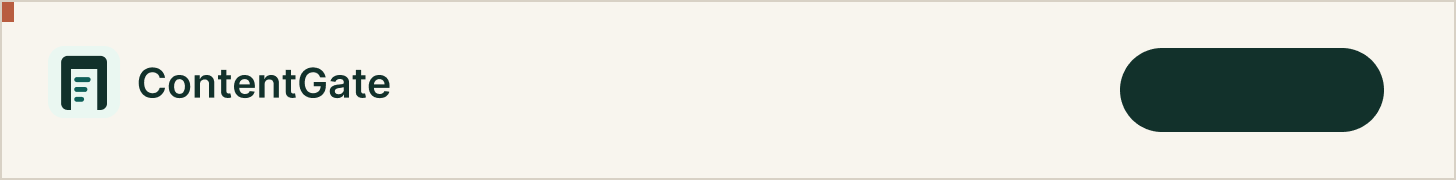
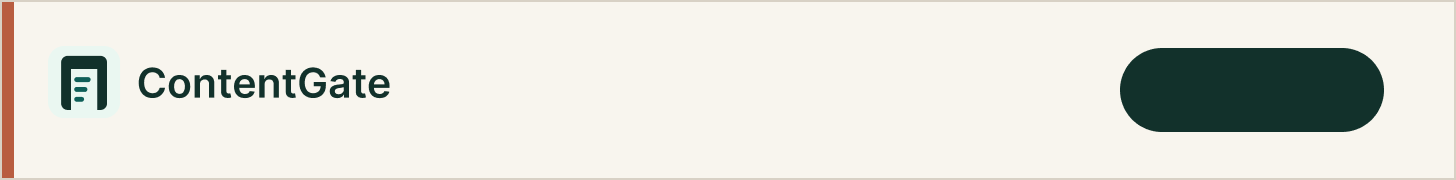
Use canonical ContentGate preview assets

Changed region(s): [[0.0, 0.1111, 0.0309, 1.0]]

diff --git a/src/lib/template-platform/public-contentgate-assets.ts b/src/lib/template-platform/public-contentgate-assets.ts
@@ -1,6 +1,22 @@
 import type { TemplateBundleManifest } from "./manifest";
 
-export const CONTENTGATE_PUBLIC_ASSET_VERSION = "clean-figwright-2026-07-16-04";
+export const CONTENTGATE_PUBLIC_ASSET_VERSION = "clean-figwright-2026-07-16-05";
+
+type ContentGateAssetKind = "reference" | "background";
+
+const CONTENTGATE_PUBLIC_PACKAGE_BY_FAMILY: Record<string, "set-a" | "set-b"> = {
+  "contentgate-local-friendly": "set-a",
+  "contentgate-local-premium": "set-b",
+};
+
+const CONTENTGATE_PUBLIC_FILENAME_BY_VARIANT: Record<string, string> = {
+  leaderboard: "leaderboard.png",
+  link_ad: "link-ad.png",
+  medium_rectangle: "medium-rectangle.png",
+  portrait: "portrait.png",
+  square: "square.png",
+  story: "story.png",
+};
 
 export function isPublicContentGateBundle(manifest: TemplateBundleManifest) {
   return (
@@ -9,11 +25,60 @@ export function isPublicContentGateBundle(manifest: TemplateBundleManifest) {
   );
 }
 
+export function publicContentGateBundleVariantAssetPath(
+  manifest: TemplateBundleManifest,
+  variantKey: string,
+  kind: ContentGateAssetKind
+) {
+  const packageKey = CONTENTGATE_PUBLIC_PACKAGE_BY_FAMILY[manifest.family.key];
+  const filename = CONTENTGATE_PUBLIC_FILENAME_BY_VARIANT[variantKey];
+  if (!packageKey || !filename) return null;
+
+  const assetPath =
+    kind === "background"
+      ? `/template-bundles/${manifest.family.key}/figwright-v1/variants/${variantKey}/background.png`
+      : `/template-bundles/${manifest.family.key}/figwright-v1/variants/${variantKey}/reference.png`;
+  return `${assetPath}?v=${CONTENTGATE_PUBLIC_ASSET_VERSION}`;
+}
+
+function inferVariantAssetKindFromPath(assetPath: string):
+  | { variantKey: string; kind: ContentGateAssetKind }
+  | null {
+  const normalized = assetPath.replace(/^\/+/, "");
+  const variantMatch = normalized.match(
+    /(?:^|\/)variants\/([^/]+)\/(reference|background)\.png$/i
+  );
+  if (variantMatch) {
+    return {
+      variantKey: variantMatch[1],
+      kind: variantMatch[2].toLowerCase() as ContentGateAssetKind,
+    };
+  }
+
+  const packageMatch = normalized.match(
+    /^template-packages\/contentgate\/set-[ab]\/(?:(backgrounds)\/)?([^/]+)\.png$/i
+  );
+  if (!packageMatch) return null;
+  const variantKey = packageMatch[2].replace(/-/g, "_");
+  return {
+    variantKey,
+    kind: packageMatch[1] ? "background" : "reference",
+  };
+}
+
 export function publicContentGateBundleAssetPath(
   manifest: TemplateBundleManifest,
   assetPath: string
 ) {
   if (!isPublicContentGateBundle(manifest)) return null;
+  const inferred = inferVariantAssetKindFromPath(assetPath);
+  if (inferred) {
+    return publicContentGateBundleVariantAssetPath(
+      manifest,
+      inferred.variantKey,
+      inferred.kind
+    );
+  }
   if (assetPath.startsWith("template-packages/contentgate/")) {
     return `/${assetPath}?v=${CONTENTGATE_PUBLIC_ASSET_VERSION}`;
   }

diff --git a/src/lib/template-platform/contentgate-public-assets.test.ts b/src/lib/template-platform/contentgate-public-assets.test.ts
@@ -110,6 +110,37 @@ function retainedTopRustAccentPixels(reference: ImageData, background: ImageData
   return { referenceRustPixels, retainedRustPixels };
 }
 
+function retainedLeftRustAccentPixels(reference: ImageData, background: ImageData) {
+  assert.equal(background.width, reference.width);
+  assert.equal(background.height, reference.height);
+  assert.equal(background.channels, reference.channels);
+
+  const leftColumns = Math.max(1, Math.round(reference.width * 0.02));
+  let referenceRustPixels = 0;
+  let retainedRustPixels = 0;
+  let referenceMinY = Number.POSITIVE_INFINITY;
+  let referenceMaxY = -1;
+  for (let y = 0; y < reference.height; y += 1) {
+    for (let x = 0; x < leftColumns; x += 1) {
+      const index = (y * reference.width + x) * reference.channels;
+      if (!isRustAccentPixel(reference.data, index)) continue;
+      referenceRustPixels += 1;
+      referenceMinY = Math.min(referenceMinY, y);
+      referenceMaxY = Math.max(referenceMaxY, y);
+      const delta =
+        Math.abs(reference.data[index] - background.data[index]) +
+        Math.abs(reference.data[index + 1] - background.data[index + 1]) +
+        Math.abs(reference.data[index + 2] - background.data[index + 2]);
+      if (delta <= 24) retainedRustPixels += 1;
+    }
+  }
+  return {
+    referenceRustPixels,
+    retainedRustPixels,
+    referenceRustSpan: referenceMaxY >= referenceMinY ? referenceMaxY - referenceMinY + 1 : 0,
+  };
+}
+
 test("ContentGate public figwright assets are complete, sharp, and retain locked artwork", async () => {
   for (const [family, variants] of Object.entries(EXPECTED_VARIANTS)) {
     for (const [variant, [expectedWidth, expectedHeight]] of Object.entries(variants)) {
@@ -156,6 +187,17 @@ test("ContentGate public figwright assets are complete, sharp, and retain locked
         assert.ok(
           retainedRustPixels / referenceRustPixels > 0.95,
           `${family}/${variant} background lost the locked top rust accent (${retainedRustPixels}/${referenceRustPixels} retained pixels)`
+        );
+      }
+
+      const leftRust = retainedLeftRustAccentPixels(reference, background);
+      if (
+        leftRust.referenceRustPixels > 1_000 &&
+        leftRust.referenceRustSpan / reference.height > 0.8
+      ) {
+        assert.ok(
+          leftRust.retainedRustPixels / leftRust.referenceRustPixels > 0.95,
+          `${family}/${variant} background lost the locked left rust accent (${leftRust.retainedRustPixels}/${leftRust.referenceRustPixels} retained pixels)`
         );
       }
     }

diff --git a/src/app/(app)/studio/studio-data.ts b/src/app/(app)/studio/studio-data.ts
@@ -8,6 +8,7 @@ import {
 } from "@/lib/content-governance";
 import { createClient } from "@/lib/supabase/server";
 import type { TemplateBundleManifest } from "@/lib/template-platform/manifest";
+import { publicContentGateBundleVariantAssetPath } from "@/lib/template-platform/public-contentgate-assets";
 import {
   getTemplateBundleSupportedSizes,
   getTemplateBundleVariantDimensions,
@@ -44,6 +45,7 @@ export type StudioTemplate = {
   templateVersionId?: string;
   platformAssetUrlByPath?: Record<string, string>;
   platformManifest?: TemplateBundleManifest;
+  referenceAssetBySize?: Record<string, string>;
   editable_fields: string[];
   required_fields: string[];
   default_copy: Record<string, string>;
@@ -193,6 +195,12 @@ function platformAssignmentsToTemplates(rows: PlatformAssignmentRow[]): StudioTe
     if (!defaultVariantKey) return [];
     const runtime = resolveTemplateBundleRuntimeVariant(version.manifest, defaultVariantKey);
     if (!runtime) return [];
+    const referenceAssetBySize = Object.fromEntries(
+      supportedSizes.map((size) => [
+        size,
+        publicContentGateBundleVariantAssetPath(version.manifest, size, "reference") ?? "",
+      ])
+    );
     const defaultCopy = row.default_payload ?? {};
     return [
       {
@@ -204,6 +212,7 @@ function platformAssignmentsToTemplates(rows: PlatformAssignmentRow[]): StudioTe
         platformAssignmentId: row.id,
         templateVersionId: version.id,
         platformManifest: version.manifest,
+        referenceAssetBySize,
         editable_fields: runtime.fields.map((field) => field.key),
         required_fields: runtime.fields
           .filter((field) => field.required !== false)

diff --git a/src/app/(app)/studio/studio-workspace.tsx b/src/app/(app)/studio/studio-workspace.tsx
@@ -264,9 +264,11 @@ export function StudioWorkspace({
   const activeSizeLabel = selectedTemplate.platformManifest
     ? getTemplateBundleVariantLabel(selectedTemplate.platformManifest, size)
     : sizeLabel(size);
-  const originalPreviewUrl = selectedTemplate.platformAssignmentId
-    ? platformTemplatePreviewUrl(selectedTemplate.platformAssignmentId, size)
-    : templatePreviewUrl(selectedTemplate.id, size);
+  const originalPreviewUrl =
+    selectedTemplate.referenceAssetBySize?.[size] ||
+    (selectedTemplate.platformAssignmentId
+      ? platformTemplatePreviewUrl(selectedTemplate.platformAssignmentId, size)
+      : templatePreviewUrl(selectedTemplate.id, size));
   const generatedPreviewUrl = content
     ? draftPreviewUrl(content.id, size, savedAt ?? content.id)
     : null;

diff --git a/src/lib/template-platform/render.test.tsx b/src/lib/template-platform/render.test.tsx
@@ -142,7 +142,7 @@ test("ContentGate figwright bundles also support legacy public package asset pat
   const html = renderToStaticMarkup(rendered.element);
   assert.match(
     html,
-    /\/template-packages\/contentgate\/set-a\/backgrounds\/leaderboard\.png\?v=clean-figwright-/
+    /\/template-bundles\/contentgate-local-friendly\/figwright-v1\/variants\/leaderboard\/background\.png\?v=clean-figwright-/
   );
   assert.doesNotMatch(html, /storage\.example\.test/);
 });